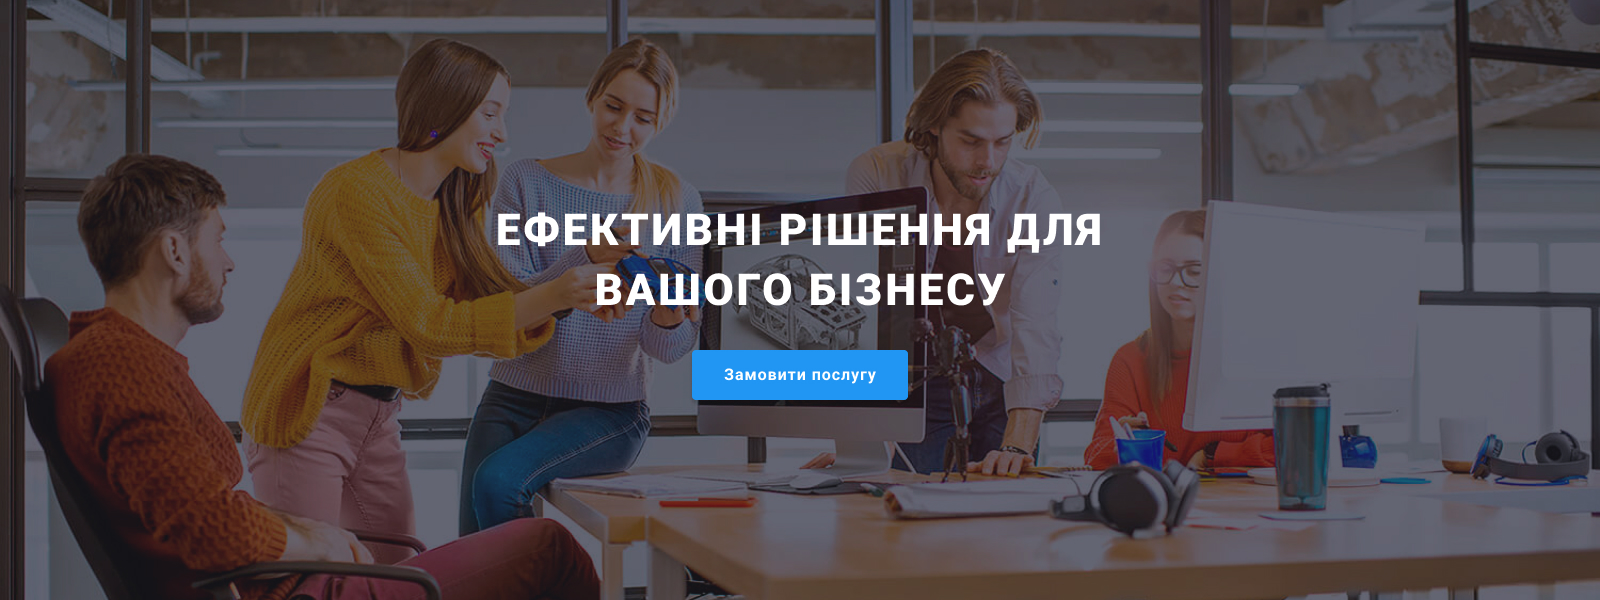
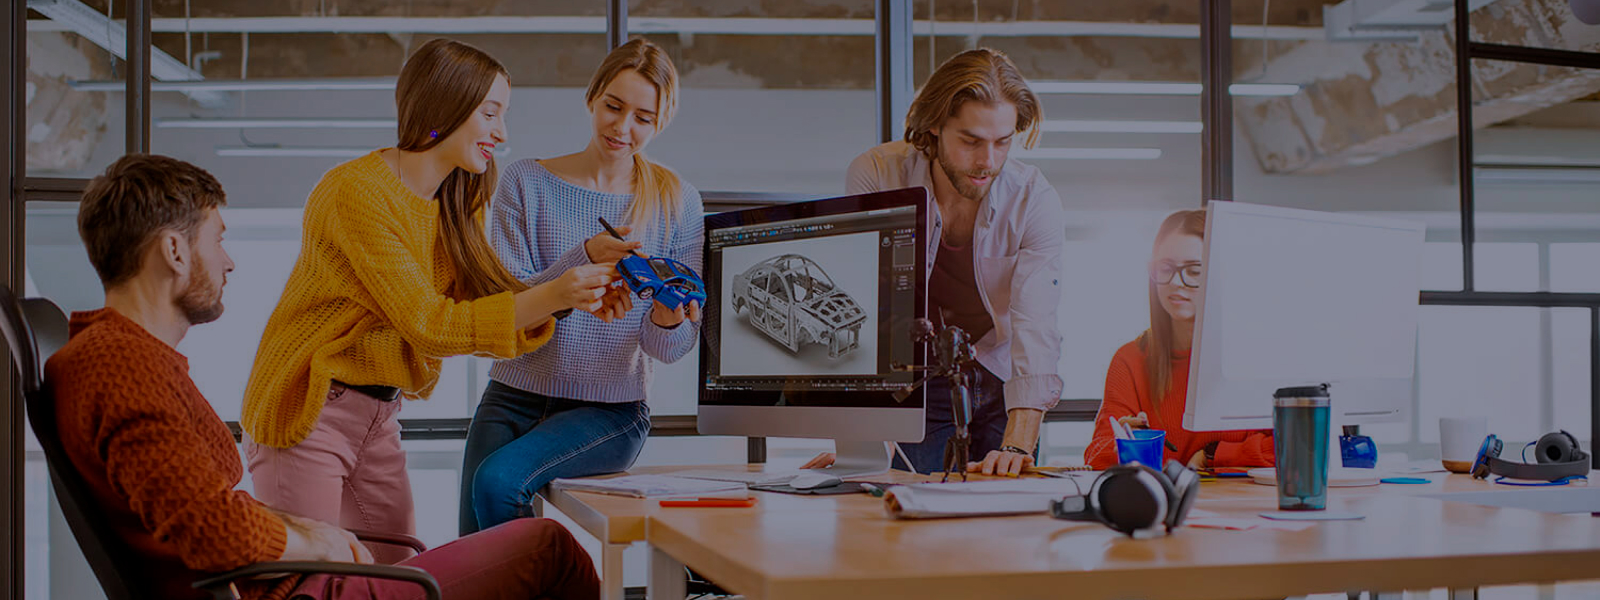
ТУЦ

diff --git a/css/style.css b/css/style.css
@@ -82,7 +82,6 @@ margin-right: 344px;
 /* main */
 /* hero */
 .hero {
-    background: #2F303A;
     height: 600px;
 
     color: var(--logo-footer-color);
@@ -91,7 +90,9 @@ margin-right: 344px;
     font-weight: 900;
     line-height: 136.364%;
     letter-spacing: 2.64px;
-    text-transform: uppercase
+    text-transform: uppercase;
+    background-image: url('../images/hero/heroes.jpg');
+    background-size: cover;
 }
 
 .hero__title{
